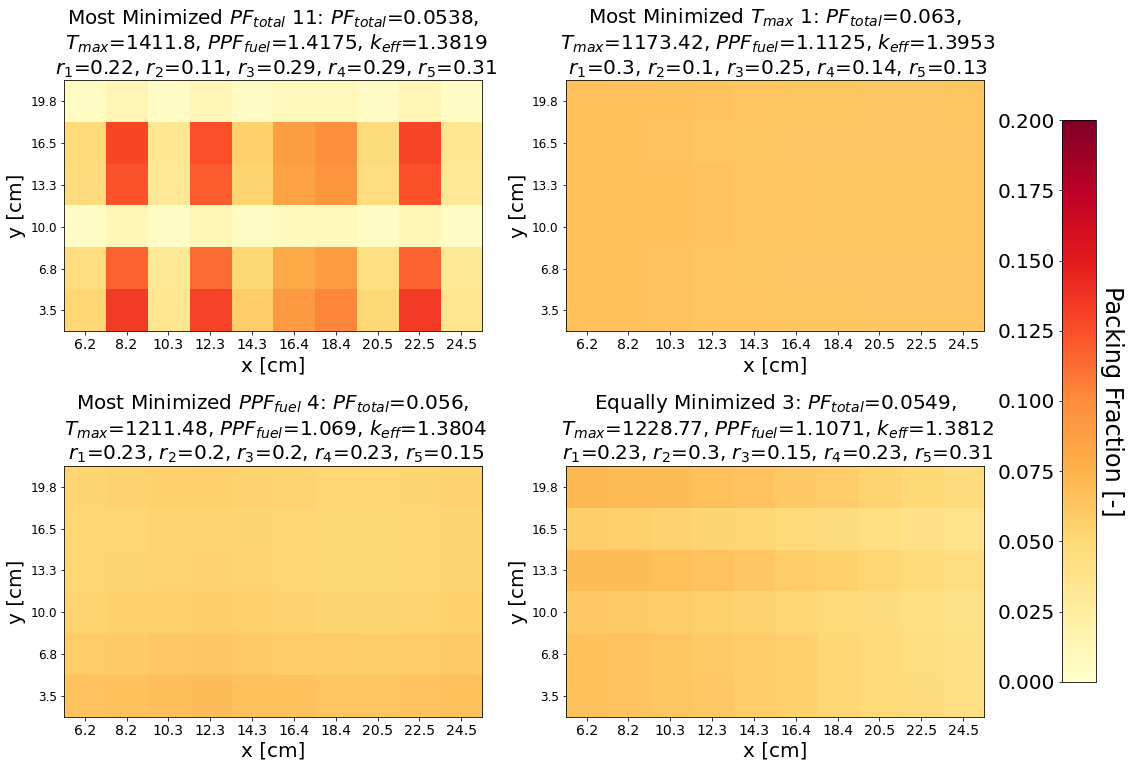
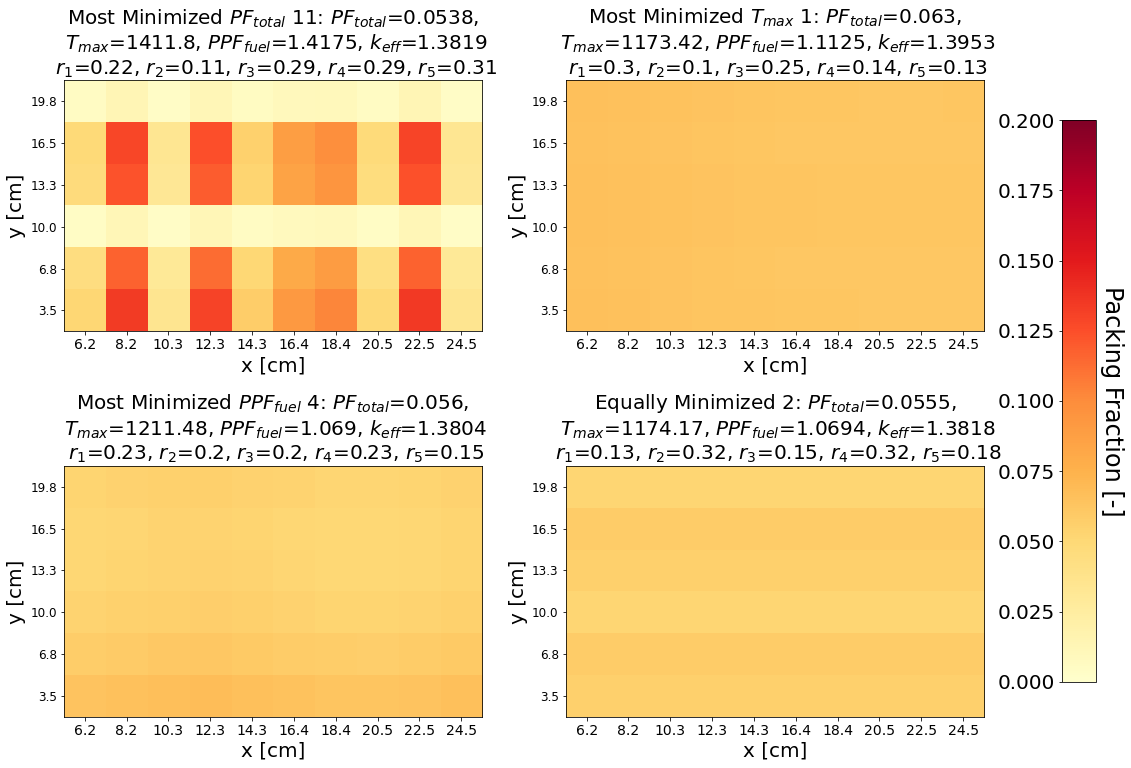
writing

diff --git a/docs/ahtr_rollo_assem.tex b/docs/ahtr_rollo_assem.tex
@@ -1402,7 +1402,7 @@ I selected the equally minimized reactor model by visually studying Figure
 \ref{fig:assem-obj-3-all} and selecting a reactor model that is close to the origin 
 and has a light yellow color dimension. 
 Reactor model 11 most-minimized $PF_{total}$, reactor model 1 most-minimized $T_{max}$, 
-reactor model 4 most-minimized $PPF_{fuel}$, and reactor model 3 equally minimized 
+reactor model 4 most-minimized $PPF_{fuel}$, and reactor model 2 equally minimized 
 all three objectives. 
 \begin{figure}[htbp!]
     \centering
@@ -1474,6 +1474,7 @@ all three objectives.
     TRISO packing fraction distribution ($\rho_{TRISO}(\vec{r})$), 
     coolant channel shape $(r_1, r_2, r_3, r_4, r_5)$.}
 \end{figure}
+% update equally minimized
 
 In Figure \ref{fig:assem-obj-3-all-most-minimized}, the one-third assembly model with 
 the most-minimized $PF_{total}$ is reactor model 11.
@@ -1492,7 +1493,6 @@ In Figure \ref{fig:assem-obj-3-all-most-minimized}, the one-third assembly model
 the most-minimized $T_{max}$ is reactor model 1. 
 Reactor model 1 has an almost constant TRISO packing fraction distribution with 
 a packing fraction standard deviation of $0.001$ across the one-third assembly. 
-
 In Figure \ref{fig:assem-obj-3-all-most-minimized}, the one-third assembly model with 
 the most-minimized $PPF_{fuel}$ is reactor model 4.
 Reactor model 4's TRISO distribution oscillates slightly along the y-axis, and has a 
@@ -1503,8 +1503,7 @@ The distribution has minimums at the 4th, 5th, and 6th fuel cell rows (at 13.3cm
 16.5cm, and 19.8cm) with $PF\approx0.052$.
 
 In Figure \ref{fig:assem-obj-3-all-most-minimized}, the one-third assembly model that 
-equally minimized all three objectives is reactor model 3. 
-% re pick? 
+equally minimized all three objectives is reactor model 2. 
 
 Section \ref{sec:assem-discussion-multi} discusses and explains simulation a-3b's 
 results.

diff --git a/docs/ahtr_rollo_assem_discussion.tex b/docs/ahtr_rollo_assem_discussion.tex
@@ -708,7 +708,7 @@ model.
 \begin{figure}[htbp!]
     \centering
     \includegraphics[width=0.49\linewidth]{a-3b-ppf-most-minimized.png} 
-    \includegraphics[width=0.49\linewidth]{a-1c-ppf-triso-comparison-most-minimized.png} 
+    \includegraphics[width=0.49\linewidth]{a-1c-ppf-triso-comparison-most-minimized-01-scale.png} 
     \caption{Simulation a-3b's most-minimized $PPF_{fuel}$ TRISO distribution 
     from Figure \ref{fig:assem-obj-3-all-most-minimized-distr} (left) and simulation 
     a-1c's most-minimized $PPF_{fuel}$ TRISO distribution from Figure 
@@ -722,7 +722,18 @@ However, they do not follow the same TRISO distribution pattern, this could be
 attributed to the $PF_{total}$ and $PPF_{fuel}$ relationship resulting in unexpected 
 TRISO distributions at different $PF_{total}$ values, as mentioned previously.
 
-% equally minimized
+Figure \ref{fig:a-3b-balanced-reactor-model} shows reactor model 2 which 
+minimized $PF_{total}$, $T_{max}$, and $PPF_{fuel}$ to an equal extent by balancing 
+influences from all objectives. 
+\begin{figure}[htbp!]
+    \centering
+    \includegraphics[width=0.6\linewidth]{a-3b-all-most-minimized.png} 
+    \caption{Simulation a-3b's reactor model 2 which minimized $PF_{total}$, $T_{max}$, 
+    and $PPF_{fuel}$ to an equal extent (see Pareto Front in 
+    Figure \ref{fig:assem-obj-3-all-2d}).}
+\label{fig:a-3b-balanced-reactor-model}
+\end{figure}
+% comment?
 
 Figure \ref{fig:a-3b-centerline-temp} shows the one-third assembly centerline 
 temperatures for four reactors on simulation a-3b's Pareto front: reactor model 11 
